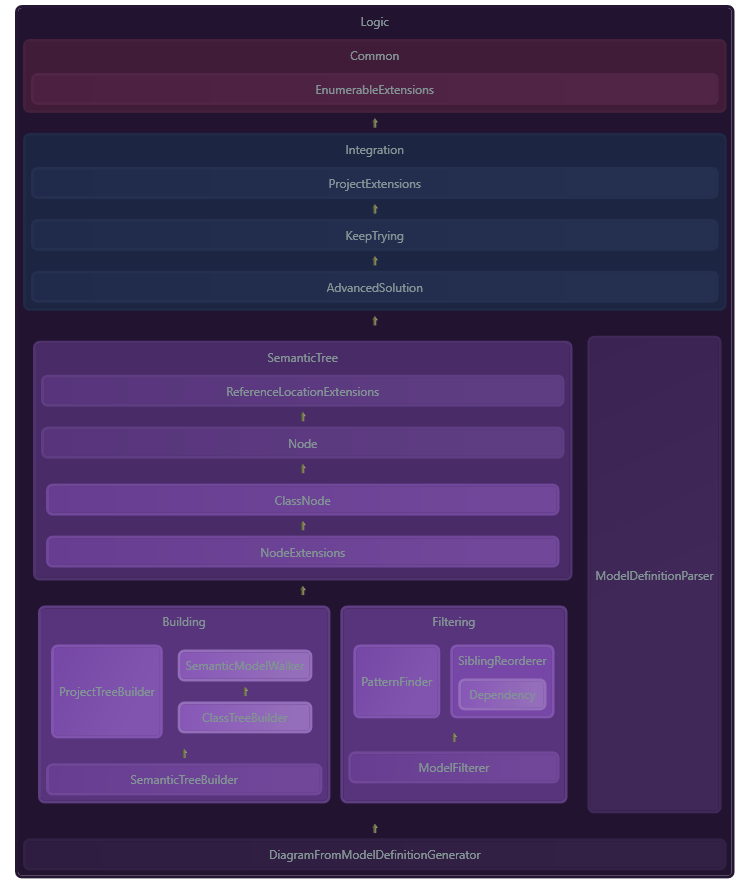
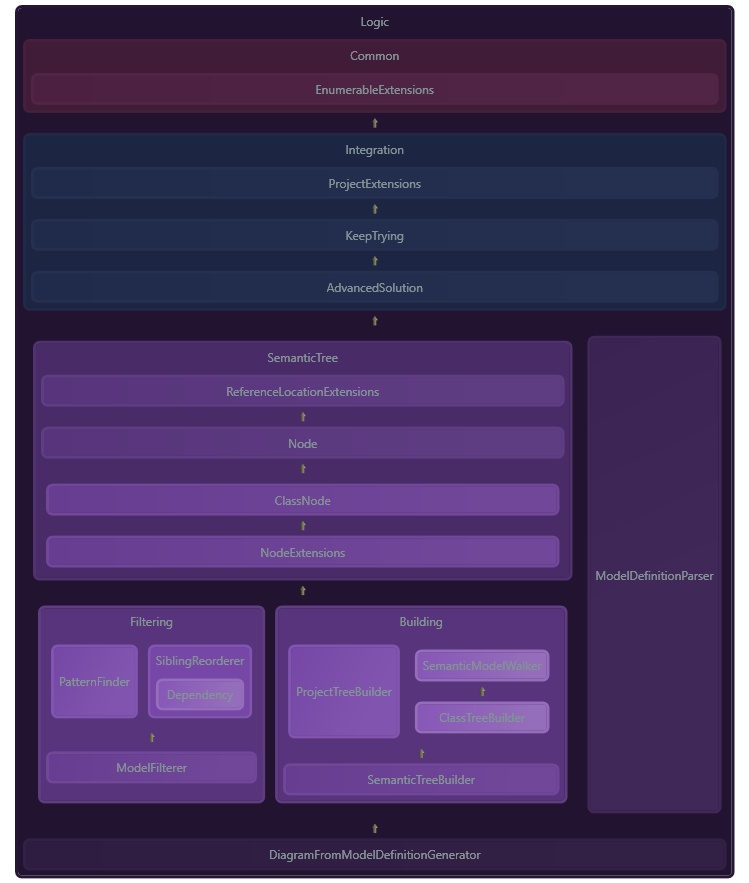
Added missing arrow view

Changed region(s): [[0.0614, 0.6727, 0.7677, 0.9173], [0.0614, 0.8867, 0.0921, 0.9173]]

diff --git a/Lib/Presentation/Views/ArrowView.xaml b/Lib/Presentation/Views/ArrowView.xaml
@@ -1,0 +1,33 @@
+<UserControl x:Class="Presentation.Views.ArrowView"
+             xmlns="http://schemas.microsoft.com/winfx/2006/xaml/presentation"
+             xmlns:x="http://schemas.microsoft.com/winfx/2006/xaml"
+             xmlns:mc="http://schemas.openxmlformats.org/markup-compatibility/2006" 
+             xmlns:d="http://schemas.microsoft.com/expression/blend/2008" 
+             xmlns:local="clr-namespace:Presentation.Views"
+             mc:Ignorable="d" 
+             Width="10"
+             Height="10"
+             d:DesignHeight="100" d:DesignWidth="100" d:DataContext="{d:DesignInstance local:ArrowView}">
+
+    <UserControl.Resources>
+        <ResourceDictionary>
+            <ResourceDictionary.MergedDictionaries>
+                <ResourceDictionary Source="/Presentation;component/Resources/arrow-symbols.xaml"/>
+            </ResourceDictionary.MergedDictionaries>
+        </ResourceDictionary>
+    </UserControl.Resources>
+
+    <Rectangle Width="Auto" Height="Auto" OpacityMask="{DynamicResource Arrow12}">
+        <Rectangle.Fill>
+            <LinearGradientBrush EndPoint="0.5,1" MappingMode="RelativeToBoundingBox" StartPoint="0.5,0">
+                <GradientStop Color="Black"/>
+                <GradientStop Color="#FFE3E69E" Offset="1"/>
+            </LinearGradientBrush>
+        </Rectangle.Fill>
+        <Rectangle.LayoutTransform>
+            <RotateTransform Angle="{Binding Angle}"></RotateTransform>
+        </Rectangle.LayoutTransform>
+    </Rectangle>
+
+
+</UserControl>

diff --git a/Lib/Presentation/Views/ArrowView.xaml.cs b/Lib/Presentation/Views/ArrowView.xaml.cs
@@ -1,0 +1,40 @@
+using System;
+using System.Collections.Generic;
+using System.Linq;
+using System.Text;
+using System.Threading.Tasks;
+using System.Windows;
+using System.Windows.Controls;
+using System.Windows.Data;
+using System.Windows.Documents;
+using System.Windows.Input;
+using System.Windows.Media;
+using System.Windows.Media.Imaging;
+using System.Windows.Navigation;
+using System.Windows.Shapes;
+using Presentation.ViewModels;
+
+namespace Presentation.Views
+{
+    /// <summary>
+    /// Interaction logic for ArrowView.xaml
+    /// </summary>
+    public partial class ArrowView : IDiagramControl
+    {
+        public ArrowView(ArrowViewModel arrowViewModel)
+        {
+            DataContext = this;
+            //TODO: Extract base constroctur
+            Row = arrowViewModel.Row;
+            Column = arrowViewModel.Column;
+            Angle = arrowViewModel.Angle;
+            InitializeComponent();
+        }
+
+        public int Angle { get; set; }
+
+        public int Column { get; set; }
+        public int Row { get; set; }
+        public UIElement UiElement => this;
+    }
+}

diff --git a/Tests/Units/Presentation/LayerMapperTests.cs b/Tests/Units/Presentation/LayerMapperTests.cs
@@ -38,8 +38,8 @@ namespace Tests.Units.Presentation
 
             Assert.AreEqual(0, vtop.Row);
 
-            Assert.AreEqual(1, vbottom.Row);
-            Assert.AreEqual(1, vbottom.Row);
+            Assert.AreEqual(2, vbottom.Row);
+            Assert.AreEqual(2, vbottom.Row);
 
             Assert.AreEqual(0, vtop.Children.First().Column);
             Assert.AreEqual(1, vtop.Children.Last().Column);
